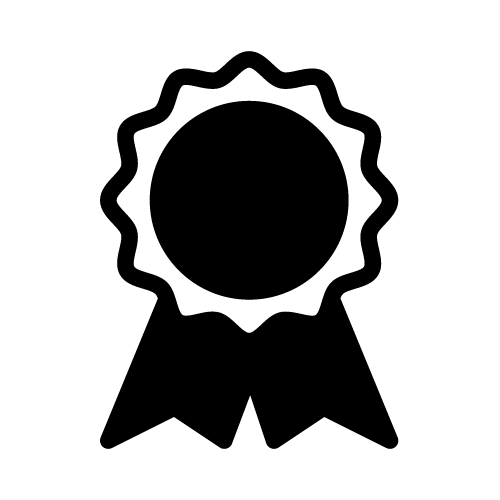
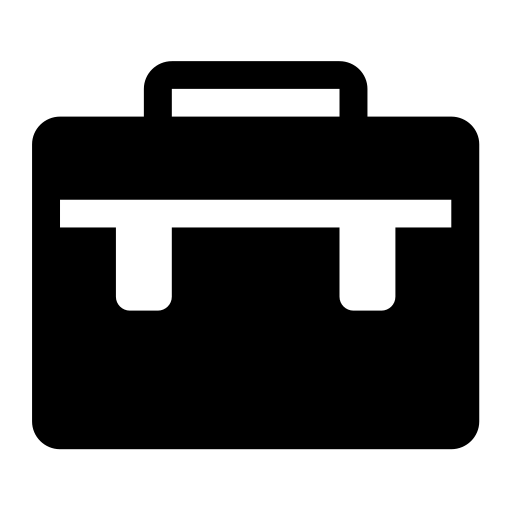
enhance ui

diff --git a/src/components/Navbar.jsx b/src/components/Navbar.jsx
@@ -1,44 +1,56 @@
 import { useState } from "react";
+import { userInfo } from "../config/data";
+import { menus } from "../config/appSettings";
 
 export default function Navbar() {
   const [open, setOpen] = useState(false);
 
   return (
-    <>
-      {/* Desktop */}
-      <nav className="hidden md:flex justify-around items-center h-[17vh]">
-        <div className="text-2xl">John Doe</div>
-        <ul className="flex gap-8 text-xl">
-          {["about", "experience", "projects", "contact"].map((item) => (
-            <li key={item}>
-              <a href={`#${item}`} className="hover:text-gray-500">
-                {item}
+    <nav className="fixed top-0 w-full z-50 backdrop-blur-md bg-white/70 border-b">
+      <div className="max-w-6xl mx-auto flex justify-between items-center px-6 py-4">
+        
+        <div className="text-xl font-semibold tracking-tight">
+          {userInfo.fullName}
+        </div>
+
+        {/* Desktop */}
+        <ul className="hidden md:flex gap-8 text-sm font-medium">
+          {menus.map((item) => (
+            <li key={item.value}>
+              <a
+                href={`#${item.value}`}
+                className="hover:text-black text-gray-600 transition"
+              >
+                {item.label}
               </a>
             </li>
           ))}
         </ul>
-      </nav>
 
-      {/* Mobile */}
-      <nav className="flex md:hidden justify-between p-4">
-        <div className="text-xl">John Doe</div>
+        {/* Mobile */}
+        <button
+          onClick={() => setOpen(!open)}
+          className="md:hidden text-2xl"
+        >
+          ☰
+        </button>
+      </div>
 
-        <div>
-          <button onClick={() => setOpen(!open)}>☰</button>
-
-          {open && (
-            <ul className="absolute right-4 bg-white shadow p-4">
-              {["about", "experience", "projects", "contact"].map((item) => (
-                <li key={item}>
-                  <a href={`#${item}`} onClick={() => setOpen(false)}>
-                    {item}
-                  </a>
-                </li>
-              ))}
-            </ul>
-          )}
+      {/* Mobile dropdown */}
+      {open && (
+        <div className="md:hidden px-6 pb-4 space-y-3">
+          {menus.map((item) => (
+            <a
+              key={item.value}
+              href={`#${item.value}`}
+              onClick={() => setOpen(false)}
+              className="block text-gray-700"
+            >
+              {item.label}
+            </a>
+          ))}
         </div>
-      </nav>
-    </>
+      )}
+    </nav>
   );
 }

diff --git a/src/components/About.jsx b/src/components/About.jsx
@@ -1,26 +1,46 @@
+import { aboutMe } from "../config/data";
+
 export default function About() {
   return (
-    <section id="about" className="px-6 py-20">
-      <p className="text-center">Get To Know More</p>
-      <h1 className="text-3xl text-center font-bold mb-10">About Me</h1>
+    <section
+      id="about"
+      className="w-full px-4 sm:px-6 py-20 sm:py-24 h-[70vh]"
+    >
+      <p className="text-center text-gray-500 text-sm sm:text-base">
+        Get To Know More
+      </p>
 
-      <div className="flex flex-col md:flex-row gap-10 items-center">
-        <img src="src/assets/about-pic.png" className="w-64 rounded-2xl" />
+      <h1 className="text-3xl sm:text-4xl text-center font-bold mb-10 sm:mb-12">
+        About Me
+      </h1>
 
-        <div>
-          <div className="flex gap-4 mb-6 flex-wrap">
-            <div className="border p-4 rounded-2xl text-center">
-              <h3>Experience</h3>
-              <p>2+ years Frontend</p>
-            </div>
+      <div className="max-w-6xl mx-auto flex flex-col lg:flex-row gap-10 lg:justify-center lg:gap-16 items-center">
+        <img
+          src="src/assets/about-pic.png"
+          className="w-48 sm:w-64 md:w-72 lg:w-80 rounded-2xl shadow-lg object-cover"
+        />
 
-            <div className="border p-4 rounded-2xl text-center">
-              <h3>Education</h3>
-              <p>Bachelor Degree</p>
-            </div>
+        <div className="w-full max-w-xl text-center lg:text-left">
+          <div className="grid grid-cols-1 sm:grid-cols-2 gap-4 sm:gap-6 mb-6">
+            {Object.entries(aboutMe).map(([key, { title, image, desc }]) => (
+              <div
+                key={key}
+                className="p-5 rounded-2xl border shadow-sm hover:shadow-md transition text-center"
+              >
+                <img src={image} className="w-7 h-7 mx-auto mb-2" />
+                <h3 className="font-semibold text-sm sm:text-base">{title}</h3>
+                <p className="text-gray-500 text-xs sm:text-sm mt-1">{desc}</p>
+              </div>
+            ))}
           </div>
 
-          <p className="text-gray-600">Your description here...</p>
+          <p className="text-gray-600 leading-relaxed text-sm sm:text-base">
+            I am a passionate and self-driven software development student with
+            a strong interest in building modern web applications. I have
+            experience working with technologies such as React, Node.js, and
+            SQL, and I enjoy transforming ideas into clean, functional, and
+            user-friendly interfaces.
+          </p>
         </div>
       </div>
     </section>

diff --git a/src/components/Projects.jsx b/src/components/Projects.jsx
@@ -1,22 +1,36 @@
-const projects = [
-  { title: "Project One", img: "src/assets/project-1.png" },
-  { title: "Project Two", img: "src/assets/project-2.png" },
-];
+import { projects } from "../config/data";
 
 export default function Projects() {
   return (
-    <section id="projects" className="min-h-screen p-10">
-      <h1 className="text-3xl text-center font-bold">Projects</h1>
+    <section
+      id="projects"
+      className="max-w-6xl mx-auto px-6 py-24 min-h-screen"
+    >
+      <p className="text-center text-gray-500">Browse My Recent</p>
+      <h1 className="text-4xl text-center font-bold mb-12">Projects</h1>
 
-      <div className="grid md:grid-cols-3 gap-6 mt-10">
+      <div className="grid md:grid-cols-3 gap-8">
         {projects.map((p) => (
-          <div key={p.title} className="border p-4 rounded-2xl">
-            <img src={p.img} className="rounded-xl" />
-            <h2 className="text-xl mt-2">{p.title}</h2>
+          <div
+            key={p.title}
+            className="group rounded-2xl overflow-hidden border hover:shadow-xl transition"
+          >
+            <img
+              src={p.img}
+              className="w-full group-hover:scale-105 transition"
+            />
 
-            <div className="flex gap-2 mt-2">
-              <button className="border px-3 py-1">Github</button>
-              <button className="border px-3 py-1">Live</button>
+            <div className="p-4">
+              <h2 className="text-lg font-semibold">{p.title}</h2>
+
+              <div className="flex gap-2 mt-3">
+                <button className="text-sm px-3 py-1 border rounded hover:bg-black hover:text-white transition">
+                  Github
+                </button>
+                <button className="text-sm px-3 py-1 border rounded hover:bg-black hover:text-white transition">
+                  Live
+                </button>
+              </div>
             </div>
           </div>
         ))}

diff --git a/src/components/Profile.jsx b/src/components/Profile.jsx
@@ -1,30 +1,51 @@
+import { userInfo } from "../config/data";
+
 export default function Profile() {
   return (
     <section
       id="profile"
-      className="flex flex-col md:flex-row items-center justify-center gap-10 min-h-screen"
+      className="h-[90vh] flex flex-col md:flex-row items-center justify-center gap-16 px-6 pt-24"
     >
-      <img src="src/assets/profile-pic.png" className="w-64 h-64 rounded-full" />
+      <img
+        src="src/assets/profile-pic.png"
+        className="w-64 h-64 object-cover rounded-full shadow-lg border border-black"
+      />
 
-      <div className="text-center">
-        <p className="font-semibold">Hello, I'm</p>
-        <h1 className="text-4xl font-bold">John Doe</h1>
-        <p className="text-xl">Frontend Developer</p>
+      <div className="text-center md:text-left max-w-lg">
+        <p className="text-gray-500 mb-2">Hi there, I'm</p>
 
-        <div className="flex gap-4 justify-center mt-4">
+        <h1 className="text-5xl font-bold leading-tight">{userInfo.name}</h1>
+
+        <p className="text-xl text-gray-500 mt-2">{userInfo.title}</p>
+
+        <div className="flex gap-4 mt-6 justify-center md:justify-start">
           <button
             onClick={() => window.open("/assets/resume.pdf")}
-            className="border px-4 py-2 rounded-full"
+            className="px-6 py-3 rounded-full border hover:bg-black hover:text-white transition"
           >
             Download CV
           </button>
 
           <button
             onClick={() => (window.location.href = "#contact")}
-            className="bg-black text-white px-4 py-2 rounded-full"
+            className="px-6 py-3 rounded-full bg-black text-white hover:opacity-80 transition"
           >
             Contact
           </button>
+        </div>
+
+        {/* Socials */}
+        <div className="flex gap-4 mt-6 justify-center md:justify-start">
+          <img
+            src="src/assets/linkedin.png"
+            className="w-6 cursor-pointer hover:scale-110 transition"
+            onClick={() => window.open("https://linkedin.com")}
+          />
+          <img
+            src="src/assets/github.png"
+            className="w-6 cursor-pointer hover:scale-110 transition"
+            onClick={() => window.open("https://github.com")}
+          />
         </div>
       </div>
     </section>

diff --git a/src/config/data.js b/src/config/data.js
@@ -1,0 +1,25 @@
+export const userInfo = {
+  fullName: "Chiv Sovan Chitra",
+  name: "Sovan Chitra",
+  title: "Fullstack Developer",
+  email: "[email redacted]",
+};
+
+export const projects = [
+  { title: "RemoteYourWork", img: "src/assets/project-1.png" },
+  { title: "Memoire Vault", img: "src/assets/project-2.png" },
+  { title: "Receipies", img: "src/assets/project-3.png" },
+];
+
+export const aboutMe = {
+  experience: {
+    title: "Experience",
+    image: "src/assets/experience.png",
+    desc: "2+ years Frontend",
+  },
+  education: {
+    title: "Education",
+    image: "src/assets/education.png",
+    desc: "Bachelor Degree",
+  },
+};

diff --git a/src/components/Contact.jsx b/src/components/Contact.jsx
@@ -1,11 +1,24 @@
 export default function Contact() {
   return (
-    <section id="contact" className="py-20 text-center">
-      <h1 className="text-3xl font-bold mb-6">Contact Me</h1>
+    <section id="contact" className="py-24 text-center">
+      <h1 className="text-4xl font-bold mb-6">Contact Me</h1>
 
-      <div className="border inline-flex gap-6 p-4 rounded-2xl">
-        <a href="mailto:[email redacted]">Email</a>
-        <a href="https://linkedin.com">LinkedIn</a>
+      <div className="flex justify-center gap-6">
+        <a
+          href="mailto:[email redacted]"
+          className="px-6 py-3 border rounded-full hover:bg-black hover:text-white transition flex items-center gap-2"
+        >
+          <img src="src/assets/email.png" className="w-8 h-8" />
+          Email
+        </a>
+
+        <a
+          href="https://linkedin.com"
+          className="px-6 py-3 border rounded-full hover:bg-black hover:text-white transition flex items-center gap-2"
+        >
+          <img src="src/assets/linkedin.png" className="w-7 h-7" />
+          LinkedIn
+        </a>
       </div>
     </section>
   );

diff --git a/src/components/Experience.jsx b/src/components/Experience.jsx
@@ -2,14 +2,17 @@ const skills = ["HTML", "CSS", "JavaScript", "React", "Node JS"];
 
 export default function Experience() {
   return (
-    <section id="experience" className="px-6 py-20">
-      <h1 className="text-3xl text-center font-bold mb-10">Experience</h1>
+    <section id="experience" className="max-w-6xl mx-auto px-6 py-24">
+      <p className="text-center text-gray-500">Explore My</p>
+      <h1 className="text-4xl text-center font-bold mb-12">Experience</h1>
 
-      <div className="flex flex-wrap justify-center gap-6">
+      <div className="flex flex-wrap justify-center gap-4">
         {skills.map((skill) => (
-          <div key={skill} className="border p-4 rounded-xl w-40 text-center">
-            <h3>{skill}</h3>
-            <p className="text-gray-500">Intermediate</p>
+          <div
+            key={skill}
+            className="px-6 py-3 rounded-full border text-sm font-medium hover:bg-black hover:text-white transition"
+          >
+            {skill}
           </div>
         ))}
       </div>

diff --git a/src/components/Footer.jsx b/src/components/Footer.jsx
@@ -1,7 +1,10 @@
+import { userInfo } from "../config/data";
+
 export default function Footer() {
   return (
-    <footer className="text-center py-6">
-      <p>© 2023 John Doe. All Rights Reserved.</p>
+    <footer className="text-center py-10 border-t text-sm text-gray-500">
+      © {new Date().getFullYear()} {` `} {userInfo.fullName}. All rights
+      reserved.
     </footer>
   );
 }

diff --git a/src/config/appSettings.js b/src/config/appSettings.js
@@ -1,0 +1,6 @@
+export const menus = [
+  { label: "About", value: "about" },
+  { label: "Experience", value: "experience" },
+  { label: "Projects", value: "projects" },
+  { label: "Contact", value: "contact" },
+];